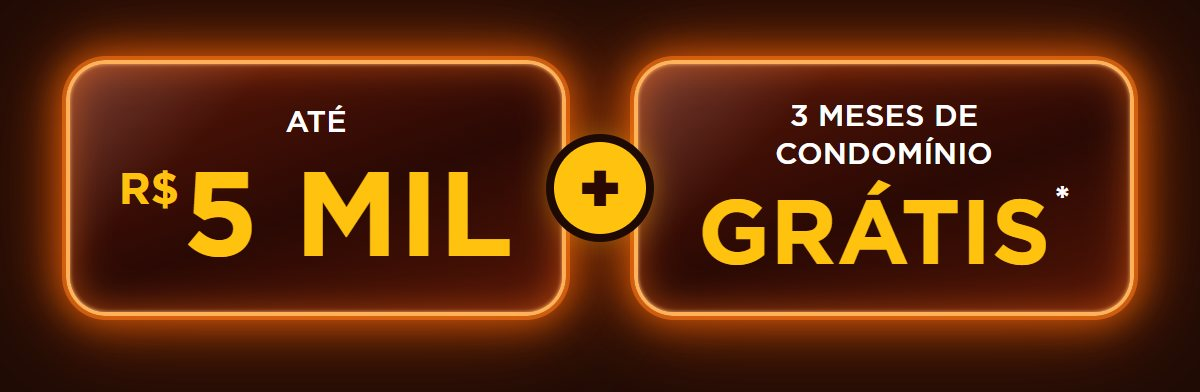
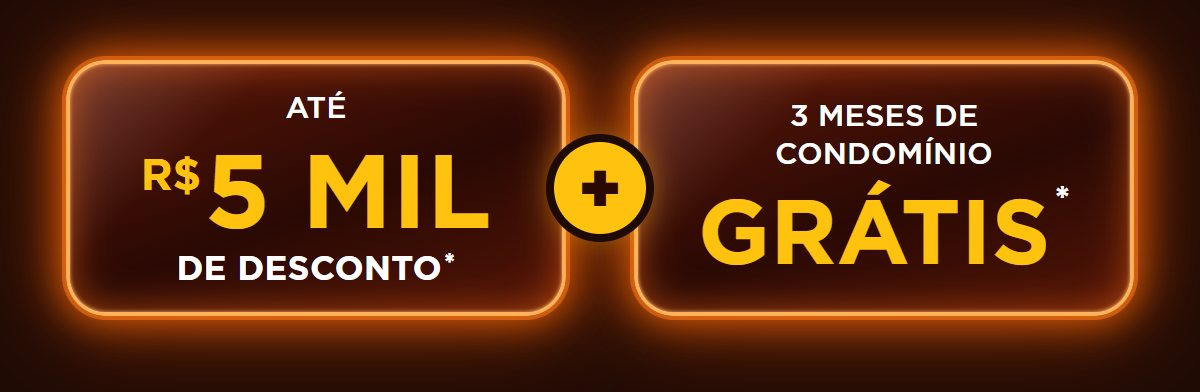
Ajusta box de desconto e jurídico dos e-mails VSM e Now 29
VSM (Vida Samambaia):
- Box de R$ 5 mil passa a dizer "Até R$ 5 mil de desconto*"
- Novo jurídico com registro R-1/373.946

Now 29:
- Valor do desconto com ponto: "R$ 24.5 mil" (box, assunto,
  pré-headers e alt)
- Novo jurídico com registro R-13/24.254

Changed region(s): [[0.0925, 0.398, 0.4317, 0.7347], [0.2158, 0.2449, 0.3083, 0.3367]]

diff --git a/now29-black-2026/email-02-reforco.html b/now29-black-2026/email-02-reforco.html
@@ -9,7 +9,7 @@
 <meta name="color-scheme" content="dark">
 <meta name="supported-color-schemes" content="dark">
 <!-- ASSUNTO: Now 29: desconto + ITBI e registro grátis* -->
-<!-- PRÉ-HEADER: Até R$ 24,5 mil de desconto* e condições facilitadas para financiar seu apê*. -->
+<!-- PRÉ-HEADER: Até R$ 24.5 mil de desconto* e condições facilitadas para financiar seu apê*. -->
 <title>Now 29: desconto + ITBI e registro grátis*</title>
 <!--[if mso]>
 <noscript><xml><o:OfficeDocumentSettings><o:PixelsPerInch>96</o:PixelsPerInch></o:OfficeDocumentSettings></xml></noscript>
@@ -39,7 +39,7 @@
 <body id="body" style="margin:0;padding:0;background-color:#0F0502;">
   <!-- pré-header (oculto) -->
   <div style="display:none;max-height:0;overflow:hidden;mso-hide:all;font-size:1px;line-height:1px;color:#0F0502;opacity:0;">
-    Até R$ 24,5 mil de desconto* e condições facilitadas para financiar seu apê*.&#8199;&#65279;&#847; &#8199;&#65279;&#847; &#8199;&#65279;&#847; &#8199;&#65279;&#847; &#8199;&#65279;&#847; &#8199;&#65279;&#847; &#8199;&#65279;&#847; &#8199;&#65279;&#847; &#8199;&#65279;&#847; &#8199;&#65279;&#847; &#8199;&#65279;&#847; &#8199;&#65279;&#847; &#8199;&#65279;&#847; &#8199;&#65279;&#847; &#8199;&#65279;&#847; &#8199;&#65279;&#847; &#8199;&#65279;&#847; &#8199;&#65279;&#847; &#8199;&#65279;&#847; &#8199;&#65279;&#847; &#8199;&#65279;&#847; &#8199;&#65279;&#847; &#8199;&#65279;&#847; &#8199;&#65279;&#847; &#8199;&#65279;&#847; &#8199;&#65279;&#847; &#8199;&#65279;&#847; &#8199;&#65279;&#847; &#8199;&#65279;&#847; &#8199;&#65279;&#847; &#8199;&#65279;&#847; &#8199;&#65279;&#847; &#8199;&#65279;&#847; &#8199;&#65279;&#847; &#8199;&#65279;&#847; &#8199;&#65279;&#847; &#8199;&#65279;&#847; &#8199;&#65279;&#847; &#8199;&#65279;&#847; &#8199;&#65279;&#847; 
+    Até R$ 24.5 mil de desconto* e condições facilitadas para financiar seu apê*.&#8199;&#65279;&#847; &#8199;&#65279;&#847; &#8199;&#65279;&#847; &#8199;&#65279;&#847; &#8199;&#65279;&#847; &#8199;&#65279;&#847; &#8199;&#65279;&#847; &#8199;&#65279;&#847; &#8199;&#65279;&#847; &#8199;&#65279;&#847; &#8199;&#65279;&#847; &#8199;&#65279;&#847; &#8199;&#65279;&#847; &#8199;&#65279;&#847; &#8199;&#65279;&#847; &#8199;&#65279;&#847; &#8199;&#65279;&#847; &#8199;&#65279;&#847; &#8199;&#65279;&#847; &#8199;&#65279;&#847; &#8199;&#65279;&#847; &#8199;&#65279;&#847; &#8199;&#65279;&#847; &#8199;&#65279;&#847; &#8199;&#65279;&#847; &#8199;&#65279;&#847; &#8199;&#65279;&#847; &#8199;&#65279;&#847; &#8199;&#65279;&#847; &#8199;&#65279;&#847; &#8199;&#65279;&#847; &#8199;&#65279;&#847; &#8199;&#65279;&#847; &#8199;&#65279;&#847; &#8199;&#65279;&#847; &#8199;&#65279;&#847; &#8199;&#65279;&#847; &#8199;&#65279;&#847; &#8199;&#65279;&#847; &#8199;&#65279;&#847; 
   </div>
 
   <table role="presentation" width="100%" cellpadding="0" cellspacing="0" border="0" style="background-color:#0F0502;">
@@ -72,7 +72,7 @@
           </tr>
           <tr>
             <td align="center" style="padding:0;background-color:#1E0A04;">
-              <img src="https://cdn.jsdelivr.net/gh/beatinyx/emails-ebm@main/now29-black-2026/images/oferta.jpg" width="600" height="438" alt="Até R$ 24,5 mil de desconto*. Condições facilitadas de financiamento*. ITBI e registro grátis*." class="fluid" style="display:block;width:100%;max-width:600px;height:auto;border:0;outline:none;text-decoration:none;color:#F3E6DF;font-family:'Montserrat','Segoe UI',Arial,Helvetica,sans-serif;font-size:16px;line-height:22px;background-color:#1E0A04;">
+              <img src="https://cdn.jsdelivr.net/gh/beatinyx/emails-ebm@main/now29-black-2026/images/oferta.jpg" width="600" height="438" alt="Até R$ 24.5 mil de desconto*. Condições facilitadas de financiamento*. ITBI e registro grátis*." class="fluid" style="display:block;width:100%;max-width:600px;height:auto;border:0;outline:none;text-decoration:none;color:#F3E6DF;font-family:'Montserrat','Segoe UI',Arial,Helvetica,sans-serif;font-size:16px;line-height:22px;background-color:#1E0A04;">
             </td>
           </tr>
           <tr>
@@ -96,7 +96,7 @@
           </tr>
           <tr>
             <td class="px" style="padding:4px 48px 36px;background-color:#1E0A04;font-family:'Montserrat','Segoe UI',Arial,Helvetica,sans-serif;font-size:11px;line-height:17px;color:#A88A7C;text-align:center;">
-              *Campanha válida de 11/11 a 30/11/2026, para unidades participantes do Now 29, enquanto durar o estoque promocional. Consulte condições de desconto, documentação e financiamento com a equipe de vendas. <span style="white-space:nowrap;">R-13/24.254.</span> Perspectiva ilustrativa.
+              *Condições válidas de 11/11/2026 a 30/11/2026 ou enquanto durarem os estoques promocionais. Oferta sujeita a alterações sem aviso prévio. Consulte um corretor. Imagem meramente ilustrativa. <span style="white-space:nowrap;">R-13/24.254.</span>
             </td>
           </tr>
         </table>

diff --git a/now29-black-2026/email-03-reta-final.html b/now29-black-2026/email-03-reta-final.html
@@ -9,7 +9,7 @@
 <meta name="color-scheme" content="dark">
 <meta name="supported-color-schemes" content="dark">
 <!-- ASSUNTO: Até 30/11: aproveite a Black do Now 29 -->
-<!-- PRÉ-HEADER: Últimos dias para aproveitar até R$ 24,5 mil de desconto* no seu novo apê. -->
+<!-- PRÉ-HEADER: Últimos dias para aproveitar até R$ 24.5 mil de desconto* no seu novo apê. -->
 <title>Até 30/11: aproveite a Black do Now 29</title>
 <!--[if mso]>
 <noscript><xml><o:OfficeDocumentSettings><o:PixelsPerInch>96</o:PixelsPerInch></o:OfficeDocumentSettings></xml></noscript>
@@ -39,7 +39,7 @@
 <body id="body" style="margin:0;padding:0;background-color:#0F0502;">
   <!-- pré-header (oculto) -->
   <div style="display:none;max-height:0;overflow:hidden;mso-hide:all;font-size:1px;line-height:1px;color:#0F0502;opacity:0;">
-    Últimos dias para aproveitar até R$ 24,5 mil de desconto* no seu novo apê.&#8199;&#65279;&#847; &#8199;&#65279;&#847; &#8199;&#65279;&#847; &#8199;&#65279;&#847; &#8199;&#65279;&#847; &#8199;&#65279;&#847; &#8199;&#65279;&#847; &#8199;&#65279;&#847; &#8199;&#65279;&#847; &#8199;&#65279;&#847; &#8199;&#65279;&#847; &#8199;&#65279;&#847; &#8199;&#65279;&#847; &#8199;&#65279;&#847; &#8199;&#65279;&#847; &#8199;&#65279;&#847; &#8199;&#65279;&#847; &#8199;&#65279;&#847; &#8199;&#65279;&#847; &#8199;&#65279;&#847; &#8199;&#65279;&#847; &#8199;&#65279;&#847; &#8199;&#65279;&#847; &#8199;&#65279;&#847; &#8199;&#65279;&#847; &#8199;&#65279;&#847; &#8199;&#65279;&#847; &#8199;&#65279;&#847; &#8199;&#65279;&#847; &#8199;&#65279;&#847; &#8199;&#65279;&#847; &#8199;&#65279;&#847; &#8199;&#65279;&#847; &#8199;&#65279;&#847; &#8199;&#65279;&#847; &#8199;&#65279;&#847; &#8199;&#65279;&#847; &#8199;&#65279;&#847; &#8199;&#65279;&#847; &#8199;&#65279;&#847; 
+    Últimos dias para aproveitar até R$ 24.5 mil de desconto* no seu novo apê.&#8199;&#65279;&#847; &#8199;&#65279;&#847; &#8199;&#65279;&#847; &#8199;&#65279;&#847; &#8199;&#65279;&#847; &#8199;&#65279;&#847; &#8199;&#65279;&#847; &#8199;&#65279;&#847; &#8199;&#65279;&#847; &#8199;&#65279;&#847; &#8199;&#65279;&#847; &#8199;&#65279;&#847; &#8199;&#65279;&#847; &#8199;&#65279;&#847; &#8199;&#65279;&#847; &#8199;&#65279;&#847; &#8199;&#65279;&#847; &#8199;&#65279;&#847; &#8199;&#65279;&#847; &#8199;&#65279;&#847; &#8199;&#65279;&#847; &#8199;&#65279;&#847; &#8199;&#65279;&#847; &#8199;&#65279;&#847; &#8199;&#65279;&#847; &#8199;&#65279;&#847; &#8199;&#65279;&#847; &#8199;&#65279;&#847; &#8199;&#65279;&#847; &#8199;&#65279;&#847; &#8199;&#65279;&#847; &#8199;&#65279;&#847; &#8199;&#65279;&#847; &#8199;&#65279;&#847; &#8199;&#65279;&#847; &#8199;&#65279;&#847; &#8199;&#65279;&#847; &#8199;&#65279;&#847; &#8199;&#65279;&#847; &#8199;&#65279;&#847; 
   </div>
 
   <table role="presentation" width="100%" cellpadding="0" cellspacing="0" border="0" style="background-color:#0F0502;">
@@ -77,7 +77,7 @@
           </tr>
           <tr>
             <td align="center" style="padding:0;background-color:#1E0A04;">
-              <img src="https://cdn.jsdelivr.net/gh/beatinyx/emails-ebm@main/now29-black-2026/images/oferta.jpg" width="600" height="438" alt="Até R$ 24,5 mil de desconto*. Condições facilitadas de financiamento*. ITBI e registro grátis*." class="fluid" style="display:block;width:100%;max-width:600px;height:auto;border:0;outline:none;text-decoration:none;color:#F3E6DF;font-family:'Montserrat','Segoe UI',Arial,Helvetica,sans-serif;font-size:16px;line-height:22px;background-color:#1E0A04;">
+              <img src="https://cdn.jsdelivr.net/gh/beatinyx/emails-ebm@main/now29-black-2026/images/oferta.jpg" width="600" height="438" alt="Até R$ 24.5 mil de desconto*. Condições facilitadas de financiamento*. ITBI e registro grátis*." class="fluid" style="display:block;width:100%;max-width:600px;height:auto;border:0;outline:none;text-decoration:none;color:#F3E6DF;font-family:'Montserrat','Segoe UI',Arial,Helvetica,sans-serif;font-size:16px;line-height:22px;background-color:#1E0A04;">
             </td>
           </tr>
           <tr>
@@ -101,7 +101,7 @@
           </tr>
           <tr>
             <td class="px" style="padding:4px 48px 36px;background-color:#1E0A04;font-family:'Montserrat','Segoe UI',Arial,Helvetica,sans-serif;font-size:11px;line-height:17px;color:#A88A7C;text-align:center;">
-              *Campanha válida de 11/11 a 30/11/2026, para unidades participantes do Now 29, enquanto durar o estoque promocional. Consulte condições de desconto, documentação e financiamento com a equipe de vendas. <span style="white-space:nowrap;">R-13/24.254.</span> Perspectiva ilustrativa.
+              *Condições válidas de 11/11/2026 a 30/11/2026 ou enquanto durarem os estoques promocionais. Oferta sujeita a alterações sem aviso prévio. Consulte um corretor. Imagem meramente ilustrativa. <span style="white-space:nowrap;">R-13/24.254.</span>
             </td>
           </tr>
         </table>

diff --git a/now29-black-2026/email-01-abertura.html b/now29-black-2026/email-01-abertura.html
@@ -8,9 +8,9 @@
 <meta name="format-detection" content="telephone=no,address=no,email=no,date=no,url=no">
 <meta name="color-scheme" content="dark">
 <meta name="supported-color-schemes" content="dark">
-<!-- ASSUNTO: Black EBM: até R$ 24,5 mil de desconto* -->
+<!-- ASSUNTO: Black EBM: até R$ 24.5 mil de desconto* -->
 <!-- PRÉ-HEADER: Seu Now 29 com ITBI e registro grátis* e condições facilitadas de financiamento*. -->
-<title>Black EBM: até R$ 24,5 mil de desconto*</title>
+<title>Black EBM: até R$ 24.5 mil de desconto*</title>
 <!--[if mso]>
 <noscript><xml><o:OfficeDocumentSettings><o:PixelsPerInch>96</o:PixelsPerInch></o:OfficeDocumentSettings></xml></noscript>
 <style>td,th,div,p,a,h1{font-family:Arial,sans-serif !important;}</style>
@@ -72,7 +72,7 @@
           </tr>
           <tr>
             <td align="center" style="padding:0;background-color:#1E0A04;">
-              <img src="https://cdn.jsdelivr.net/gh/beatinyx/emails-ebm@main/now29-black-2026/images/oferta.jpg" width="600" height="438" alt="Até R$ 24,5 mil de desconto*. Condições facilitadas de financiamento*. ITBI e registro grátis*." class="fluid" style="display:block;width:100%;max-width:600px;height:auto;border:0;outline:none;text-decoration:none;color:#F3E6DF;font-family:'Montserrat','Segoe UI',Arial,Helvetica,sans-serif;font-size:16px;line-height:22px;background-color:#1E0A04;">
+              <img src="https://cdn.jsdelivr.net/gh/beatinyx/emails-ebm@main/now29-black-2026/images/oferta.jpg" width="600" height="438" alt="Até R$ 24.5 mil de desconto*. Condições facilitadas de financiamento*. ITBI e registro grátis*." class="fluid" style="display:block;width:100%;max-width:600px;height:auto;border:0;outline:none;text-decoration:none;color:#F3E6DF;font-family:'Montserrat','Segoe UI',Arial,Helvetica,sans-serif;font-size:16px;line-height:22px;background-color:#1E0A04;">
             </td>
           </tr>
           <tr>
@@ -96,7 +96,7 @@
           </tr>
           <tr>
             <td class="px" style="padding:4px 48px 36px;background-color:#1E0A04;font-family:'Montserrat','Segoe UI',Arial,Helvetica,sans-serif;font-size:11px;line-height:17px;color:#A88A7C;text-align:center;">
-              *Campanha válida de 11/11 a 30/11/2026, para unidades participantes do Now 29, enquanto durar o estoque promocional. Consulte condições de desconto, documentação e financiamento com a equipe de vendas. <span style="white-space:nowrap;">R-13/24.254.</span> Perspectiva ilustrativa.
+              *Condições válidas de 11/11/2026 a 30/11/2026 ou enquanto durarem os estoques promocionais. Oferta sujeita a alterações sem aviso prévio. Consulte um corretor. Imagem meramente ilustrativa. <span style="white-space:nowrap;">R-13/24.254.</span>
             </td>
           </tr>
         </table>

diff --git a/vsm-black-2026/email-01-abertura.html b/vsm-black-2026/email-01-abertura.html
@@ -62,7 +62,7 @@
           </tr>
           <tr>
             <td align="center" style="padding:0;background-color:#1E0A04;">
-              <img src="https://cdn.jsdelivr.net/gh/beatinyx/emails-ebm@main/vsm-black-2026/images/desconto.jpg" width="600" height="196" alt="Até R$ 5 mil + 3 meses de condomínio grátis*." class="fluid" style="display:block;width:100%;max-width:600px;height:auto;border:0;outline:none;text-decoration:none;color:#F3E6DF;font-family:'Montserrat','Segoe UI',Arial,Helvetica,sans-serif;font-size:16px;line-height:22px;background-color:#1E0A04;">
+              <img src="https://cdn.jsdelivr.net/gh/beatinyx/emails-ebm@main/vsm-black-2026/images/desconto.jpg" width="600" height="196" alt="Até R$ 5 mil de desconto* + 3 meses de condomínio grátis*." class="fluid" style="display:block;width:100%;max-width:600px;height:auto;border:0;outline:none;text-decoration:none;color:#F3E6DF;font-family:'Montserrat','Segoe UI',Arial,Helvetica,sans-serif;font-size:16px;line-height:22px;background-color:#1E0A04;">
             </td>
           </tr>
           <tr>
@@ -106,7 +106,7 @@
           </tr>
           <tr>
             <td class="px" style="padding:4px 48px 36px;background-color:#1E0A04;font-family:'Montserrat','Segoe UI',Arial,Helvetica,sans-serif;font-size:11px;line-height:17px;color:#A88A7C;text-align:center;">
-              *Campanha válida até 30/11/2026. Consulte condições e unidades participantes com a equipe de vendas. <span style="white-space:nowrap;">R1-373.946.</span>
+              *Condições válidas de 11/11/2026 a 30/11/2026 ou enquanto durarem os estoques promocionais. Oferta sujeita a alterações sem aviso prévio. Consulte um corretor. Imagem meramente ilustrativa. <span style="white-space:nowrap;">R-1/373.946.</span>
             </td>
           </tr>
         </table>

diff --git a/vsm-black-2026/email-02-reforco.html b/vsm-black-2026/email-02-reforco.html
@@ -62,7 +62,7 @@
           </tr>
           <tr>
             <td align="center" style="padding:0;background-color:#1E0A04;">
-              <img src="https://cdn.jsdelivr.net/gh/beatinyx/emails-ebm@main/vsm-black-2026/images/desconto.jpg" width="600" height="196" alt="Até R$ 5 mil + 3 meses de condomínio grátis*." class="fluid" style="display:block;width:100%;max-width:600px;height:auto;border:0;outline:none;text-decoration:none;color:#F3E6DF;font-family:'Montserrat','Segoe UI',Arial,Helvetica,sans-serif;font-size:16px;line-height:22px;background-color:#1E0A04;">
+              <img src="https://cdn.jsdelivr.net/gh/beatinyx/emails-ebm@main/vsm-black-2026/images/desconto.jpg" width="600" height="196" alt="Até R$ 5 mil de desconto* + 3 meses de condomínio grátis*." class="fluid" style="display:block;width:100%;max-width:600px;height:auto;border:0;outline:none;text-decoration:none;color:#F3E6DF;font-family:'Montserrat','Segoe UI',Arial,Helvetica,sans-serif;font-size:16px;line-height:22px;background-color:#1E0A04;">
             </td>
           </tr>
           <tr>
@@ -116,7 +116,7 @@
           </tr>
           <tr>
             <td class="px" style="padding:4px 48px 36px;background-color:#1E0A04;font-family:'Montserrat','Segoe UI',Arial,Helvetica,sans-serif;font-size:11px;line-height:17px;color:#A88A7C;text-align:center;">
-              *Campanha válida até 30/11/2026. Consulte condições e unidades participantes com a equipe de vendas. <span style="white-space:nowrap;">R1-373.946.</span>
+              *Condições válidas de 11/11/2026 a 30/11/2026 ou enquanto durarem os estoques promocionais. Oferta sujeita a alterações sem aviso prévio. Consulte um corretor. Imagem meramente ilustrativa. <span style="white-space:nowrap;">R-1/373.946.</span>
             </td>
           </tr>
         </table>

diff --git a/vsm-black-2026/email-03-reta-final.html b/vsm-black-2026/email-03-reta-final.html
@@ -62,7 +62,7 @@
           </tr>
           <tr>
             <td align="center" style="padding:0;background-color:#1E0A04;">
-              <img src="https://cdn.jsdelivr.net/gh/beatinyx/emails-ebm@main/vsm-black-2026/images/desconto.jpg" width="600" height="196" alt="Até R$ 5 mil + 3 meses de condomínio grátis*." class="fluid" style="display:block;width:100%;max-width:600px;height:auto;border:0;outline:none;text-decoration:none;color:#F3E6DF;font-family:'Montserrat','Segoe UI',Arial,Helvetica,sans-serif;font-size:16px;line-height:22px;background-color:#1E0A04;">
+              <img src="https://cdn.jsdelivr.net/gh/beatinyx/emails-ebm@main/vsm-black-2026/images/desconto.jpg" width="600" height="196" alt="Até R$ 5 mil de desconto* + 3 meses de condomínio grátis*." class="fluid" style="display:block;width:100%;max-width:600px;height:auto;border:0;outline:none;text-decoration:none;color:#F3E6DF;font-family:'Montserrat','Segoe UI',Arial,Helvetica,sans-serif;font-size:16px;line-height:22px;background-color:#1E0A04;">
             </td>
           </tr>
           <tr>
@@ -111,7 +111,7 @@
           </tr>
           <tr>
             <td class="px" style="padding:4px 48px 36px;background-color:#1E0A04;font-family:'Montserrat','Segoe UI',Arial,Helvetica,sans-serif;font-size:11px;line-height:17px;color:#A88A7C;text-align:center;">
-              *Campanha válida até 30/11/2026. Consulte condições e unidades participantes com a equipe de vendas. <span style="white-space:nowrap;">R1-373.946.</span>
+              *Condições válidas de 11/11/2026 a 30/11/2026 ou enquanto durarem os estoques promocionais. Oferta sujeita a alterações sem aviso prévio. Consulte um corretor. Imagem meramente ilustrativa. <span style="white-space:nowrap;">R-1/373.946.</span>
             </td>
           </tr>
         </table>

diff --git a/vsm-black-2026/_src/slices.html b/vsm-black-2026/_src/slices.html
@@ -68,6 +68,8 @@
   .neon .val{font-weight:700;color:var(--yellow);line-height:1;text-transform:uppercase;margin-top:6px;white-space:nowrap}
   .neon .val small{font-size:22px;vertical-align:top;position:relative;top:7px;margin-right:2px}
   .neon .val sup{font-size:18px;vertical-align:top;position:relative;top:-2px;color:#fff;margin-left:2px}
+  .neon .sub{font-size:17px;font-weight:700;letter-spacing:.2px;line-height:1;color:#fff;text-transform:uppercase;margin-top:5px;white-space:nowrap}
+  .neon .sub sup{font-size:13px;vertical-align:top;position:relative;top:-1px;margin-left:1px}
   .plus{width:46px;height:46px;margin:0 -6px;z-index:2;border-radius:50%;background:var(--yellow);color:#2a0904;
     font-weight:900;font-size:34px;line-height:46px;text-align:center;box-shadow:0 0 0 4px var(--bg),0 0 18px rgba(255,190,20,.6)}
   .tag{position:relative;margin:34px auto 0;width:max-content;transform:rotate(-2deg)}
@@ -126,7 +128,8 @@
   <div class="row">
     <div class="neon">
       <div class="lbl">Até</div>
-      <div class="val" style="font-size:60px"><small>R$</small>5 MIL</div>
+      <div class="val" style="font-size:52px"><small>R$</small>5 MIL</div>
+      <div class="sub">de desconto<sup>*</sup></div>
     </div>
     <div class="plus">+</div>
     <div class="neon">

diff --git a/now29-black-2026/_src/slices.html b/now29-black-2026/_src/slices.html
@@ -125,7 +125,7 @@
   <div class="row">
     <div class="neon wide">
       <div class="lbl">Até</div>
-      <div class="val" style="font-size:78px"><small>R$</small>24,5 MIL</div>
+      <div class="val" style="font-size:78px"><small>R$</small>24.5 MIL</div>
       <div class="sub">de desconto<sup>*</sup></div>
     </div>
   </div>
